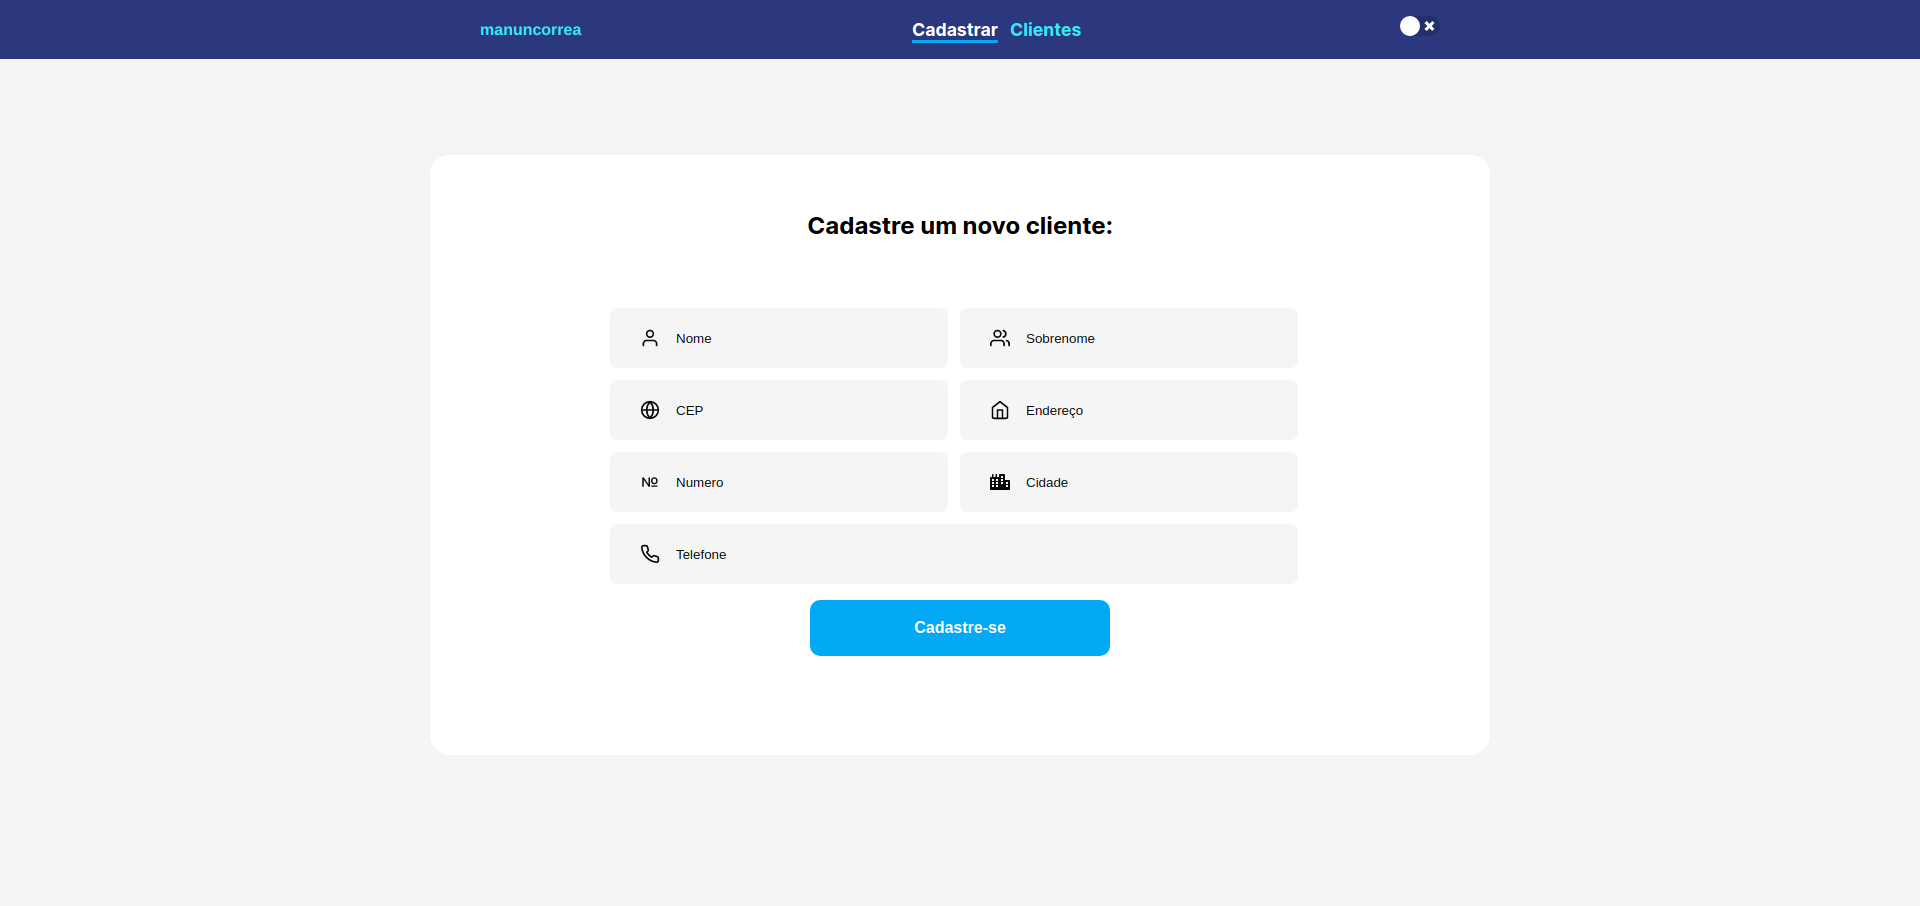
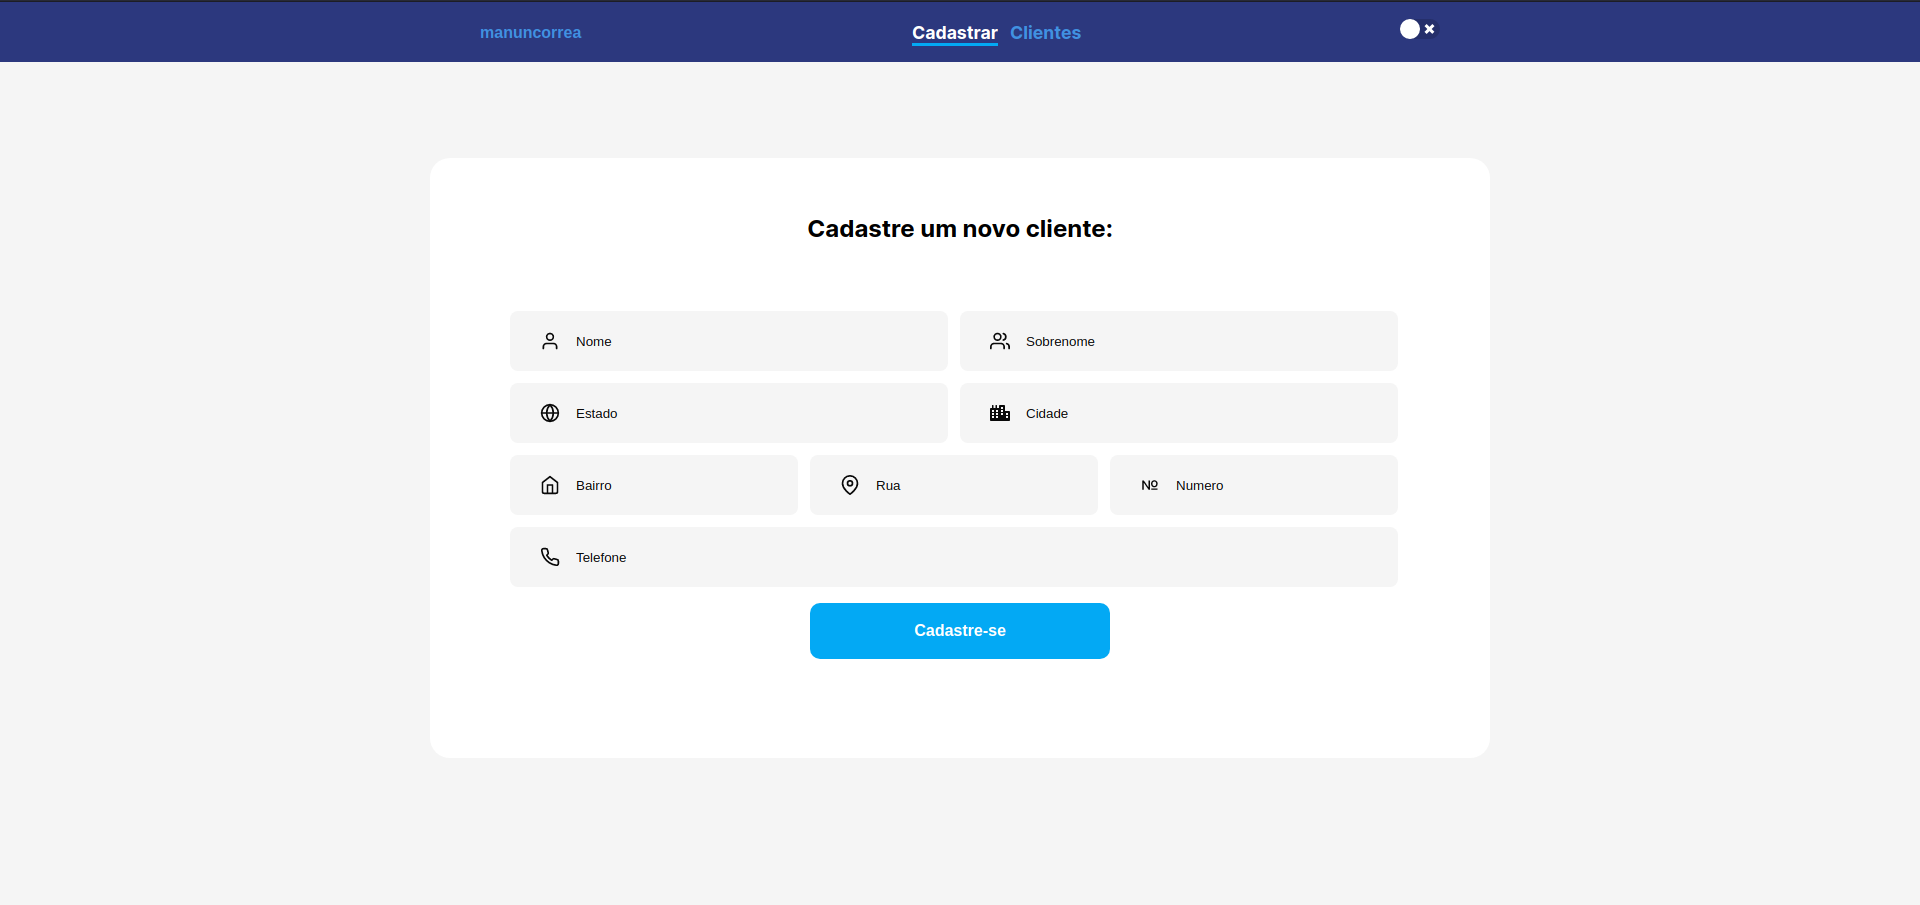
atualizando paleta de cores do theme light e campos de cadastro

diff --git a/src/pages/Register/index.tsx b/src/pages/Register/index.tsx
@@ -3,7 +3,7 @@ import BoxContent from '../../components/BoxContent';
 import Button from '../../components/Button';
 import Input from '../../components/Input';
 
-import { FiUser, FiUsers, FiHome, FiGlobe, FiPhone } from 'react-icons/fi';
+import { FiUser, FiUsers, FiHome, FiGlobe, FiMapPin, FiPhone } from 'react-icons/fi';
 import { AiOutlineFieldNumber } from 'react-icons/ai';
 import { FaCity } from 'react-icons/fa';
 
@@ -23,13 +23,14 @@ const Register: React.FC = () => {
           </div>
 
           <div>
-            <Input name="cep"  type="text" icon={FiGlobe} placeholder="CEP"/>
-            <Input name="end"  type="text" icon={FiHome} placeholder="Endereço"/>
+            <Input name="Estago"  type="text" icon={FiGlobe} placeholder="Estado"/>
+            <Input name="city"  type="text" icon={FaCity} placeholder="Cidade"/>
           </div>
 
-          <div>
+          <div className="teste">
+            <Input name="bairro"  type="text" icon={FiHome} placeholder="Bairro"/>
+            <Input name="rua"  type="text" icon={FiMapPin} placeholder="Rua"/>
             <Input name="number"  type="text" icon={AiOutlineFieldNumber} placeholder="Numero"/>
-            <Input name="city"  type="text" icon={FaCity} placeholder="Cidade"/>
           </div>
       
           <div className="phone">

diff --git a/src/pages/Register/styles.ts b/src/pages/Register/styles.ts
@@ -30,7 +30,7 @@ export const Content = styled.div`
 
 export const Section = styled.section`
   div{
-    width: 700px;
+    width: 900px;
     display: flex;
     align-items: center;
     justify-content: center;
@@ -55,6 +55,11 @@ export const Section = styled.section`
       justify-content: center;
     }
   }
+
+  /* .teste {
+    display: grid;
+    grid-columns: 1fr 1fr 1fr;
+  } */
 
 `;
 

diff --git a/src/styles/themes/light.ts b/src/styles/themes/light.ts
@@ -15,7 +15,7 @@ export default {
     box: '#fff',
 
     text: '#000',
-    textSecundary: '#33eafa',
+    textSecundary: '#4191e1',
   },
 
 };
